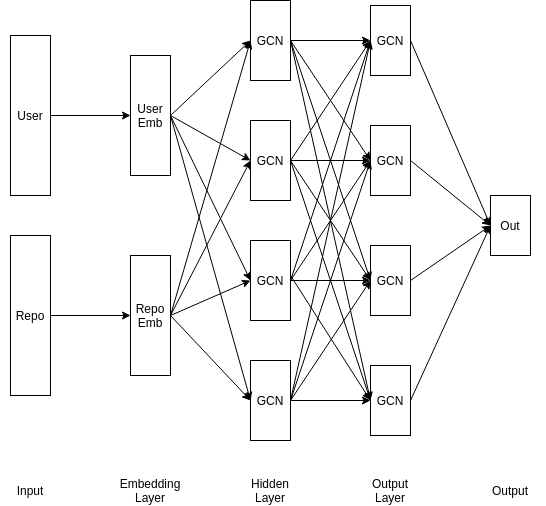
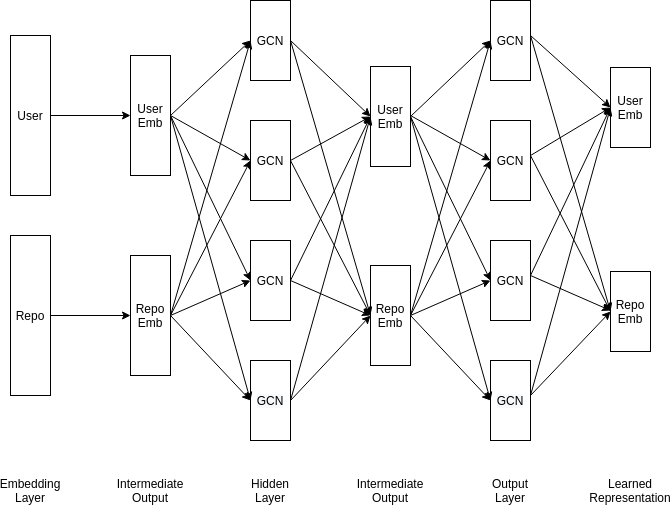
refine the method chapter

diff --git a/minor_thesis.tex b/minor_thesis.tex
@@ -167,13 +167,10 @@ An approach proposed by \cite{zhang_detecting_2017} are based on some assumption
 
 Above all, these studies used limited information and data set to build and evaluate their models. It is because the traditional approaches have limitations in using side information.
 
-\chapter{Methods}
-\section{Problem Formulation}
-This thesis proposed a model for the recommendation of repositories as a link prediction in a heterogeneous graph. The neural network predicts whether the link between a user and a repository exists. If the link exists then recommend the repository to the user.
+\chapter{Notations and Problem Formulation}
+Knowledge graph (KG) can be represented as entity-relation-entity triples $(head, relation, tail)$. The "head" and "tail" are entities. The "relation" is the relationship between the two entities. For example, $(user1, star, repository2)$ means that the user named "user1" starred the repository named "repository2". The relation "star" indicates how a user interacts with a repository. The relation in the entity-relation-entity triples is the same as the edge in the graph structure.
 
-\section{Knowledge graph construction}
-\subsection{Nodes and edges selection}
-This thesis constructed a heterogeneous graph to model the relationship between users and repositories by using Deep Graph Library (DGL) \cite{wang2019dgl}. The nodes of the graph are users and repositories. The table \ref{tab:edge_types} shows 4 types of edges in the graph. "watch" means a user watches a repository. "star" means a user stars a repository. "fork" means a user forks a repository. "own" means a user is the owner of a repository. 
+We explored 2 types of entities and 4 types of relations. They are shown in the table \ref{tab:edge_types}. "User" means users from GitHub. "Repository" means the repositories that are stored on GitHub. "watch" means an user watches a repository. "star" means an user stars a repository. "fork" means an user forks a repository. "own" means an user is the owner of a repository. 
 
 \begin{center}
     \captionof{table}{Four types of edges}
@@ -189,7 +186,7 @@ This thesis constructed a heterogeneous graph to model the relationship between 
     \label{tab:edge_types}
 \end{center}
 
-Since edges in graphs created by the DGL library have directions. This thesis added 4 types of reverse relationships that are list in the table \ref{tab:reverse_edge_types}. They are presented in the graph as the reverse edges for the aforementioned 4 types of edges. This is to make the graph undirected.
+Since relation in triples is directed. We added 4 types of reverse relations that are listed in the table \ref{tab:reverse_edge_types}. They are presented in the graph as the reverse edges for the aforementioned 4 types of edges. This is to simplify the process of message passing and aggregation for the 2 types of entities in the training process.
 
 \begin{center}
     \captionof{table}{Four reverse types of edges}
@@ -205,12 +202,7 @@ Since edges in graphs created by the DGL library have directions. This thesis ad
     \label{tab:reverse_edge_types}
 \end{center}
 
-Another research \cite{sun_personalized_2018} assigned the 4 types of edges with different scores in which the "watch" has the lowest score and the "own" has the highest score. This is a traditional rating based recommendation in which a high score is prefered and a lower one should be avoided. However, this thesis assigns those 4 types of edges with the same weight. Since any types of interactions between users and repositories should be interpreted as that a user is interested in a repository. It is different to the traditional recommendation in which a lower score indicates that a user dislikes an item.
-
-\subsection{Feature selection and presenting}
-This thesis selected 3 features for users and 19 features for repositories. 
-
-The 3 selected features of users are shown in the table \ref{tab:user_features}. The company was selected because the users from the same company may share the same interest. The location may help the neural network to recommend the repositories with the relevant natural languages. Users may write their hobbies and favourite programming languages in the 'bio' and a neural network may learn some hidden relationship between users.
+Users and repositories have features such as users' company name and repositories' description. We selected 3 features for users and 18 features for repositories as side information. The selected features are listed in the table \ref{tab:user_features} and \ref{tab:repo_features}.
 
 \begin{center}
     \captionof{table}{The selected features of users}
@@ -224,8 +216,6 @@ The 3 selected features of users are shown in the table \ref{tab:user_features}.
     \end{tabular}
     \label{tab:user_features}
 \end{center}
-
-The 18 features for repositories are shown in table \ref{tab:repo_features}.
 
 \begin{center}
     \captionof{table}{The selected features of repositories}
@@ -255,27 +245,82 @@ The 18 features for repositories are shown in table \ref{tab:repo_features}.
     \label{tab:repo_features}
 \end{center}
 
-Some features are strings that cannot be directly presented as inputs of the neural network. This thesis encoded them as vectors with the length of 50 bits by using a doc2vec model \cite{rehurek_lrec}. The vectors encoded by this model have an interesting property in which the vector distance of the strings with a similar meaning is close while the vector distance of strings with an opposite meaning is far away. This is helpful for the neural network to learn some potential relationships between repositories. The length of 50 bits is used because it is long enough to present the meaning of strings and not so robust for a neural network. All features are normalized. This is to prevent the neural network from biasing to some features with higher values.
+We formulated the recommendation problem as follows. Given the input of KG $\mathcal{G}$ that is constructed from users, repositories and their side information, predict the probability $\hat{y}_r^u$ in which users interacts with their future unseen repositories. This can be formulated as the equation \ref{eq:problem_framing}. The $\mathcal{F}$ denotes the prediction function. The $\theta$ denotes the parameters of the function.
 
-Finally, the nodes, edges and normalized features are combined to form a heterogeneous graph.
+\begin{equation}
+    \hat{y}_r^u=\mathcal{F}(\mathcal{G}|\theta)
+    \label{eq:problem_framing}
+\end{equation}
 
-\section{Training, validation and testing sub graphs}
-The training, validation and testing subgraph were constructed from the aforementioned heterogeneous graph. This is to tune and test the neural network. The subgraphs were constructed through edge sampling with a ratio of 60:20:20 for training, validation and testing.
+\chapter{Methods}
+\section{Solution overview}
+The framework of the KGNN model was shown in the figure \ref{fig:kgnn_framework}. There are mainly 4 steps that are KG construction, neural network calculation, prediction and training. The KG construction step construct the KG from users, repositories and side information by using the Deep Graph Library (DGL) \cite{wang2019dgl}. The neural network calculation step calculates the representation of users and repositories based on the inputs from the KG. The prediction step first calculates the cosine similarity between the representation of users and repositories, then recommends the most similar repositories to users. The training step calculates the loss from the prediction and update the parameters of the neural network. The steps of neural network calculation, prediction and training forms a loop. The parameters are updated and the loss is reduced through the loop.
 
-\section{Negative edges sampling}
-To prevent the trained embeddings from folding, negative sampling is necessary. This thesis sampled negative edges of the same size as the positive edges. The negative training, validation and testing graph were constructed from those negative edges.
+There are also some minor processes. Such as sub graph construction, negative edges sampling and hyper parameters tuning. The step of the sub graph construction splits the constructed KG into training, validation and testing sub graphs. This is to train and tune the neural network. The step of the negative edge sampling randomly generates false edges, which do not exist in the real data set, between users and repositories. This is to make the neural network learn to avoid folding \cite{xin_folding_2017} in which the neural network may recommend a repository to an irrelevant user. The hyper parameters tuning step tuned the learning rate and drop out rate to maximize the learning performance of the neural network. We will detail them in the following sections.
+ 
+\begin{figure}[H]
+    \centering
+    \includegraphics[scale=0.4]{KGCN Overview.png}
+    \caption{The framework of the KGNN model}
+    \label{fig:kgnn_framework}
+\end{figure}
+
+\section{KG construction}
+The collected users and repositories are numbered starting from 0 and presented in a form of tuple. The equation \ref{eq:users_tupple} indicates that there are $m$ users. The equation \ref{eq:repos_tupple} indicates that there are $n$ repositories. The tupples for the users and repositories then are inputted into the construction method provided by the DGL to create a graph object. 
+
+\begin{equation}
+    (0, 1, 2, ..., m)
+    \label{eq:users_tupple}
+\end{equation}
+
+\begin{equation}
+    (0, 1, 2, ..., n)
+    \label{eq:repos_tupple}
+\end{equation}
+
+We encoded the features of the users and repositories to numbers since the neural network only accepts numbers. For example, the company name of an user is a string and cannot be inputted into a neural network directly. We convert strings to numbers by using a doc2vec model \cite{le_distributed_nodate} provided by Gensim \cite{rehurek_lrec} that converts variable lengths of strings into a fixed length of vectors. According to \cite{mikolov_efficient_2013}, the converted vectors is the representation of the strings. Some features are already numbers such as the size of the repository. So, no further processes needed. Some boolean features such as "has\_wiki" are encoded as 1 and 0 that respectively means true and false. The encoded features are then normalized between 0 and 1.
+
+The features of the users and repositories are presented as a matrix in which the rows indicates users or repositories and the columns indicates their features. The matrix \ref{matrix:user_feature} indicates that there are $m$ users and each user has a feature of dimension $n$. The matrix \ref{matrix:repo_feature} indicates that there are $j$ repositories and each repository has a feature of dimension $k$. The 2 matrices are attached to the graph object created above.
+
+\begin{equation}
+    \begin{bmatrix}
+        1 & 0 & .3 & .5 & ... & n \\
+        0 & .4 & 1 & .6 & ... & n \\
+        . & . & . & . & ... & n \\
+        . & . & . & . & ... & n \\
+        . & . & . & . & ... & n \\
+        m & m1 & m2 & m2 & ... & n
+        \label{matrix:user_feature}
+    \end{bmatrix}
+\end{equation}
+
+\begin{equation}
+    \begin{bmatrix}
+        1 & 0 & .3 & .5 & ... & k \\
+        0 & .4 & 1 & .6 & ... & k \\
+        . & . & . & . & ... & k \\
+        . & . & . & . & ... & k \\
+        . & . & . & . & ... & k \\
+        j & j1 & j2 & j2 & ... & k
+        \label{matrix:repo_feature}
+    \end{bmatrix}
+\end{equation}
+
+The training, validation and testing subgraph were constructed from the aforementioned heterogeneous graph. The subgraphs were constructed through edge sampling with a ratio of 60:20:20 for training, validation and testing.
+
+We sampled negative edges with the amount as the same as the positive edges. The negative training, validation and testing graph were constructed from those negative edges.
 
 \section{Neural network design}
-Figure \ref{fig:kgnn_structure} shows the structure of the KGNN model. The neural network for the knowledge graph contains 3 layers that are the embedding layer, hidden layer and output layer. The embedding layer contains 2 sub single layer neural networks that are used to embedding users and repositories. The hidden layer is a graph convolutional network (GCN) \cite{kipf_semi-supervised_2017} layer that contains 4 sub GCN layers for the 4 types of edges. The output of the 4 GCNs of the hidden layer will be aggregated with the sum aggregation. The output layer is also a GCN layer that contains 4 sub GCN layers. The output of the 4 GCNs of the output layer will also be aggregated with the sum aggregation. The output contains learned users representation and repositories representation.
+Figure \ref{fig:kgnn_structure} shows the structure of the KGNN model. The neural network for the knowledge graph contains 3 layers that are the embedding layer, hidden layer and output layer. The embedding layer contains 2 sub single layer neural networks that are used to embedding users and repositories. The hidden layer is a graph convolutional network (GCN) \cite{kipf_semi-supervised_2017} layer that contains 4 sub GCN layers respectively for the 4 types of edges. The output of the 4 GCNs of the hidden layer will be aggregated with the sum aggregation. The output layer is also a GCN layer that contains 4 sub GCN layers. The output of the 4 GCNs of the output layer will also be aggregated with the sum aggregation. The output contains learned users' representation and repositories' representation.
 
 \begin{figure}[H]
     \centering
-    \includegraphics[scale=0.7]{KGCN Structure.png}
+    \includegraphics[scale=0.6]{KGCN Structure.png}
     \caption{The neural network structure of the KGNN model}
     \label{fig:kgnn_structure}
 \end{figure}
 
-Nodes in GCN will go through the process of message passing and aggregation with their neighbour nodes to get their new representation. In the process of message passing, every neighbour of a node sends its representation to the current node. In the process of aggregation, the current node aggregates the representation vectors received. The aggregation function has many types such as concatenate, sum and max. This thesis used sum aggregation. After the aggregation, the result will go through an activation function and calculate the new representation for the current node. The equation \ref{eq:message_passing_aggregation} depicts this process.
+Nodes in the GCN will go through the process of message passing and aggregation with their neighbour nodes to get their new representation. In the process of message passing, every neighbour of a node sends its representation to the current node. In the process of aggregation, the current node aggregates the representation vectors received. We used sum aggregation as the aggregation function. After the aggregation, the result will go through an activation function and calculate the new representation for the current node. The equation \ref{eq:message_passing_aggregation} depicts this process.
 
 \begin{equation}
     h_u^{n+1}=\delta(sum(h_u^n, \sum_{v\in{N(u)}}h_v^n))
@@ -284,10 +329,10 @@ Nodes in GCN will go through the process of message passing and aggregation with
 
 The $h_u$ means the representation of the current node. The $\delta$ means the activation function. The $N(u)$ means the neighbour nodes of the current node. The $h_v$ means one of the neighbour nodes of the current node.
 
-The learned representation vectors should be similar for nodes who have positive edges and dissimilar for those who have negative edges.
+The output representation vectors of the neural network should be similar for nodes who have positive edges and dissimilar for those who have negative edges.
 
-\section{Recommendation}
-The recommendation process uses the learned representation vectors of users and repositories to calculate the similarity score between them. The recommender system then recommends the top $K$ most similar repositories to users.
+\section{Prediction}
+The prediction process uses the learned representation vectors of users and repositories to calculate the similarity score between them. The recommender system then recommends the top $K$ most similar repositories to users.
 
 The similarity score is measured by using cosine similarity. The equation \ref{eq:cosine_similarity} shows how the similarity score is calculated. The $u$ and $r$ means "User" and "Repository". The $h_u$ and $h_r$ means the learned representation of users and repositories.
 
@@ -296,36 +341,65 @@ The similarity score is measured by using cosine similarity. The equation \ref{e
     \label{eq:cosine_similarity}
 \end{equation}
 
-\section{Loss function}
-To make the neural network learn to output those representations, this thesis used a hinge loss function as shown in the equation \ref{eq:loss_function}.
+\section{Training}
+\subsection{Loss function}
+To make the neural network learn to output the expected representations, we used a hinge loss function as shown in the equation \ref{eq:loss_function}.
 
 \begin{equation}
     l=\frac{1}{m\cdot{e}}\sum_{i=1}^{m}\sum_{j}^{e} max(0, f(n_u, n_v)+\Delta-f(p_u, p_v))
     \label{eq:loss_function}
 \end{equation}
 
-The $m$ means the number of types of edges (in this case it is 4). The $e$ means the number of edges. The $f$ means the cosine similarity. The $n_u$ and $n_v$ means the source and destination nodes for the negative edge $j$. The $p_u$ and $p_v$ means the source and destination nodes for the positive edge $j$. The $\Delta$ means the error tolerance.
+The $m$ means the number of types of edges (in this case it is 4). The $e$ means the number of edges. The $f$ means the cosine similarity. The $n_u$ and $n_v$ means the source and destination nodes for the negative edge $j$. The $p_u$ and $p_v$ means the source and destination nodes for the positive edge $j$. The $\Delta$ is the correction parameter that prevents the loss from becoming zero.
 
-\section{Training}
-The KGNN was trained with the PyTorch library in 100 epochs. The figure \ref{fig:training_results} shows that the loss stays stable at around 0.027 when the epoch is around 60.
+\subsection{Evaluation metric}
+We use AUC score to evaluate the training process. The AUC score is calculated as the area under the ROC curve. It has the range of 0 to 1. The higher the score means the better the performance.
+
+\subsection{Training results}
+The KGNN was trained with the PyTorch library and Adam optimizer in 100 epochs. We found that the training loss decreased sharply at the beginning and stays stable at around the epoch of 80 (see \ref{fig:training_loss}). However, the validation loss is always lower than the training loss. This is because the drop out behaviour of the neural network is suspended when calculating the validation loss. So, the validation loss can be lower than the training loss. Also, the validation graph has fewer edges than that of the training graph. It leads to fewer positive numbers in the loss and the hinge loss function simply ignores the numbers below 0. 
+
+From the figure \ref{fig:training_loss} and \ref{fig:auc}, we can see that the validation loss does not change too much after 40 epochs and the AUC score decreases after 60 epochs. It indicates that we can stop training at the epoch of around 40 to 60.
 
 \begin{figure}[H]
     \centering
-    \includegraphics[scale=0.9]{training_results.png}
-    \caption{The training results of the KGNN}
-    \label{fig:training_results}
+    \includegraphics[scale=0.9]{loss.png}
+    \caption{The training and validation loss of the KGNN}
+    \label{fig:training_loss}
+\end{figure}
+
+\begin{figure}[H]
+    \centering
+    \includegraphics[scale=0.9]{auc.png}
+    \caption{The AUC score}
+    \label{fig:auc}
 \end{figure}
 
 \section{Hyper parameters tuning}
 \subsection{Learning rate}
+We tuned the neural network with different learning rates. The result can be seen from the figure \ref{fig:auc_learning_rate}. The learning rate of 0.01 can achieve the best result.
 
-\subsection{Vector length}
+\begin{figure}[H]
+    \centering
+    \includegraphics[scale=0.9]{auc_learning_rate.png}
+    \caption{The AUC score under different learning rates}
+    \label{fig:auc_learning_rate}
+\end{figure}
 
 \subsection{Drop out}
+To prevent the model from becoming overcomplicated, we added drop out layers between the embedding layer, hidden layer and out layer. We tested different drop out rates and found that when the drop out rate is 0.4 the neural network can achieve a better result (see \ref{fig:auc_drop_out_rate}).
 
-\subsection{Regularization}
+\begin{figure}[H]
+    \centering
+    \includegraphics[scale=0.9]{auc_drop_out_rate.png}
+    \caption{The AUC score under different drop out rates}
+    \label{fig:auc_drop_out_rate}
+\end{figure}
 
-\subsection{Feature selection}
+% \subsection{Vector length}
+
+% \subsection{Regularization}
+
+% \subsection{Feature selection}
 
 \chapter{Results and Discussion}
 \section{Data collection}
@@ -401,16 +475,6 @@ The hit rate distribution \ref{fig:hitrate_10_test} of different groups for the 
     \caption{Hit rate@top 10 per epoch for the testing data set}
     \label{fig:hitrate_10_test}
 \end{figure}
-
-% \subsection{AUC}
-% From the figure \ref{fig:auc}, the AUC score stays stable at around 0.7.
-
-% \begin{figure}[H]
-%     \centering
-%     \includegraphics[scale=0.9]{auc.png}
-%     \caption{The AUC metric}
-%     \label{fig:auc}
-% \end{figure}
 
 \section{Metrics for the TF-IDF approach}
 \subsection{hit rate}
